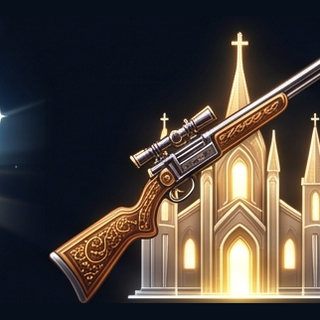
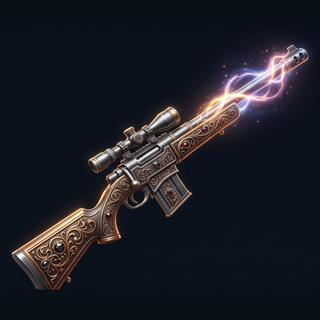
feat(gamemode): arte único por tier — 53 emblemas 3D con escala real (Novato→Adepto→Maestro) para 18 skills base + firearm/church separados; remapeo GM_NODE_ICON a keys <skill>_1/2/3, limpia 18 PNG base huérfanos; bump SW v106

diff --git a/gamemode-ui.js b/gamemode-ui.js
@@ -271,22 +271,28 @@ const GM_ICONS = {
   integrity: '<circle cx="32" cy="32" r="16" fill="url(#gm-energy)" opacity=".55"/><g fill="none" stroke="url(#gm-steel)" stroke-width="2.4"><ellipse cx="32" cy="32" rx="19" ry="8"/><ellipse cx="32" cy="32" rx="19" ry="8" transform="rotate(60 32 32)"/><ellipse cx="32" cy="32" rx="19" ry="8" transform="rotate(120 32 32)"/></g><circle cx="32" cy="32" r="4.5" fill="url(#gm-gold)"/><circle cx="30.5" cy="30.5" r="1.3" fill="#fff" opacity=".6"/><circle cx="51" cy="32" r="2" fill="url(#gm-cyan)"/><circle cx="22" cy="15.5" r="2" fill="url(#gm-cyan)"/><circle cx="22" cy="48.5" r="2" fill="url(#gm-cyan)"/>',
 };
 const GM_NODE_ICON = {
-  hombre_de_hierro: 'strength', combatiente: 'combat', saludable: 'nutrition', resistente: 'endurance', estudiante: 'intellect', alerta: 'focus', sereno: 'mind', aprendiz_de_capital: 'economist', ordenado: 'ledger', creyente: 'faith', atento: 'love', hijo_presente_n: 'family', protector_felino: 'cat', hacedor: 'execution', confiable: 'responsibility', aprendiz: 'tools',
-  hombre_de_acero: 'strength', veterano_de_combate: 'combat', nutricionista: 'nutrition', incansable: 'endurance', letrado: 'intellect', enfocado: 'focus', estoico: 'mind', inversor: 'economist', austero: 'ledger', devoto_n: 'faith', companero: 'love', hijo_ejemplar: 'family', padre_felino: 'cat', ejecutor: 'execution', responsable: 'responsibility', programador: 'tools',
+  hombre_de_hierro: 'strength_1', combatiente: 'combat_1', saludable: 'nutrition_1', resistente: 'endurance_1', estudiante: 'intellect_1', alerta: 'focus_1', sereno: 'mind_1', aprendiz_de_capital: 'economist_1', ordenado: 'ledger_1', creyente: 'faith_1', atento: 'love_1', hijo_presente_n: 'family_1', protector_felino: 'cat_1', hacedor: 'execution_1', confiable: 'responsibility_1', aprendiz: 'tools_1',
+  hombre_de_acero: 'strength_2', veterano_de_combate: 'combat_2', nutricionista: 'nutrition_2', incansable: 'endurance_2', letrado: 'intellect_2', enfocado: 'focus_2', estoico: 'mind_2', inversor: 'economist_2', austero: 'ledger_2', devoto_n: 'faith_2', companero: 'love_2', hijo_ejemplar: 'family_2', padre_felino: 'cat_2', ejecutor: 'execution_2', responsable: 'responsibility_2', programador: 'tools_2',
   patrimonio_en_marcha: 'patrimony', base_solida: 'patrimony', capital_creciente: 'patrimony', independencia_visible: 'gem', umbral_de_libertad: 'gem', patrimonio_de_elite: 'crown',
-  hombre_de_titanio: 'strength', letal: 'combat', impecable: 'nutrition', inagotable: 'endurance', jurista: 'law', imperturbable: 'focus', inquebrantable: 'mind', visionario_del_capital: 'economist', patrimonial: 'ledger', consagrado: 'faith', incondicional: 'love', hijo_de_honor: 'family', guardian_felino: 'cat', implacable: 'execution', inflexible: 'responsibility', arquitecto_digital: 'tools',
-  manejo_de_armas: 'firearm', tenencia: 'firearm', marine: 'marine', templanza_real: 'temperance', catolico_practicante: 'faith', graduado: 'graduate', primer_ingreso_negocio_ia: 'robot', coleccionista: 'medal',
+  hombre_de_titanio: 'strength_3', letal: 'combat_3', impecable: 'nutrition_3', inagotable: 'endurance_3', jurista: 'law', imperturbable: 'focus_3', inquebrantable: 'mind_3', visionario_del_capital: 'economist_3', patrimonial: 'ledger_3', consagrado: 'faith_3', incondicional: 'love_3', hijo_de_honor: 'family_3', guardian_felino: 'cat_3', implacable: 'execution_3', inflexible: 'responsibility_3', arquitecto_digital: 'tools_3',
+  manejo_de_armas: 'firearm', tenencia: 'firearm', marine: 'marine', templanza_real: 'temperance', catolico_practicante: 'church', graduado: 'graduate', primer_ingreso_negocio_ia: 'robot', coleccionista: 'medal',
   comandante_de_combate: 'commander', cuerpo_operativo: 'operative', mente_templada: 'tempered_mind', doctor_en_potencia: 'doctor', forjador_de_riqueza: 'wealth_forge', vida_ordenada: 'dove', pilar_del_hogar: 'home_pillar', arquitecto_de_sistemas: 'architect',
   centinela: 'sentinel', calculador: 'abacus', metodico: 'method', sosten: 'support', templado: 'forged', estudioso_del_sistema: 'coder', recto: 'righteous', presente_en_casa: 'presence_home', templado_de_acero: 'steel_swords',
   protector: 'guardian', estratega_total: 'strategist', disciplinado: 'discipline', proveedor: 'provider', resiliente: 'resilient_star', visionario: 'oracle', sobrio: 'dove', lider_silencioso: 'crown', inquebrantable_total: 'diamond_mind',
   hombre_de_familia: 'great_family', polimata: 'polymath', guerrero_sabio: 'wise_warrior', hombre_integro: 'temple',
-  lector_casual: 'reader', lector_entusiasta: 'reader', amante_libros: 'reader', lector_supremo: 'crown',
+  lector_casual: 'reader_1', lector_entusiasta: 'reader_2', amante_libros: 'reader_3', lector_supremo: 'crown',
 };
 function gmNodeSvg(n) { return `<svg viewBox="0 0 64 64" stroke-linejoin="round">${gmFrame(GM_RARITY_RIM[n.tier])}${GM_ICONS[GM_NODE_ICON[n.id]] || GM_ICONS.star}</svg>`; }
 // Emblemas de imagen (PNG generados con IA) que reemplazan al glyph SVG interior.
 // Agregar aquí la KEY de cada concepto cuyo archivo emblems/<key>.png ya esté disponible.
 // Mientras una key no esté en el set, ese nodo usa el glyph SVG de fallback (gmNodeSvg).
-const GM_EMBLEM_HAVE = new Set(['strength', 'combat', 'nutrition', 'endurance', 'intellect', 'focus', 'mind', 'economist', 'ledger', 'faith', 'love', 'family', 'cat', 'execution', 'responsibility', 'tools', 'patrimony', 'gem', 'crown', 'law', 'firearm', 'marine', 'temperance', 'graduate', 'robot', 'medal', 'commander', 'operative', 'tempered_mind', 'doctor', 'wealth_forge', 'dove', 'home_pillar', 'architect', 'reader', 'sentinel', 'abacus', 'method', 'support', 'forged', 'coder', 'righteous', 'presence_home', 'steel_swords', 'guardian', 'strategist', 'discipline', 'provider', 'resilient_star', 'oracle', 'diamond_mind', 'great_family', 'polymath', 'wise_warrior', 'temple']);
+const GM_EMBLEM_HAVE = new Set([
+  // Per-tier (escala real Novato→Adepto→Maestro)
+  'strength_1','strength_2','strength_3','combat_1','combat_2','combat_3','nutrition_1','nutrition_2','nutrition_3','endurance_1','endurance_2','endurance_3','focus_1','focus_2','focus_3','mind_1','mind_2','mind_3',
+  'intellect_1','intellect_2','economist_1','economist_2','economist_3','ledger_1','ledger_2','ledger_3','faith_1','faith_2','faith_3','love_1','love_2','love_3','family_1','family_2','family_3',
+  'cat_1','cat_2','cat_3','execution_1','execution_2','execution_3','responsibility_1','responsibility_2','responsibility_3','tools_1','tools_2','tools_3','reader_1','reader_2','reader_3',
+  // Sueltos + convergencias (emblema único)
+  'church','firearm','patrimony','gem','crown','law','marine','temperance','graduate','robot','medal','commander','operative','tempered_mind','doctor','wealth_forge','dove','home_pillar','architect','sentinel','abacus','method','support','forged','coder','righteous','presence_home','steel_swords','guardian','strategist','discipline','provider','resilient_star','oracle','diamond_mind','great_family','polymath','wise_warrior','temple']);
 // Renderiza el medallón: marco hexagonal de rareza SIEMPRE + (imagen del emblema si existe, si no glyph SVG).
 function gmNodeArt(n) {
   const key = GM_NODE_ICON[n.id] || 'star';

diff --git a/sw.js b/sw.js
@@ -1,7 +1,7 @@
 // Centro de Mando — Service Worker
 // Maneja Web Push, clicks de notificación, y caché offline del app shell.
 
-const CACHE = 'cdm-shell-v105';
+const CACHE = 'cdm-shell-v106';
 const BASE  = '/Centro-de-mando/';
 const SHELL = [
   BASE,
@@ -47,7 +47,7 @@ const SHELL = [
   'https://www.gstatic.com/firebasejs/9.23.0/firebase-storage-compat.js',
 ];
 // Emblemas del árbol de habilidades (PNG generados con IA)
-['strength','combat','nutrition','endurance','intellect','focus','mind','economist','ledger','faith','love','family','cat','execution','responsibility','tools','patrimony','gem','crown','law','firearm','marine','temperance','graduate','robot','medal','commander','operative','tempered_mind','doctor','wealth_forge','dove','home_pillar','architect','reader','sentinel','abacus','method','support','forged','coder','righteous','presence_home','steel_swords','guardian','strategist','discipline','provider','resilient_star','oracle','diamond_mind','great_family','polymath','wise_warrior','temple']
+['strength_1','strength_2','strength_3','combat_1','combat_2','combat_3','nutrition_1','nutrition_2','nutrition_3','endurance_1','endurance_2','endurance_3','focus_1','focus_2','focus_3','mind_1','mind_2','mind_3','intellect_1','intellect_2','economist_1','economist_2','economist_3','ledger_1','ledger_2','ledger_3','faith_1','faith_2','faith_3','love_1','love_2','love_3','family_1','family_2','family_3','cat_1','cat_2','cat_3','execution_1','execution_2','execution_3','responsibility_1','responsibility_2','responsibility_3','tools_1','tools_2','tools_3','reader_1','reader_2','reader_3','church','firearm','patrimony','gem','crown','law','marine','temperance','graduate','robot','medal','commander','operative','tempered_mind','doctor','wealth_forge','dove','home_pillar','architect','sentinel','abacus','method','support','forged','coder','righteous','presence_home','steel_swords','guardian','strategist','discipline','provider','resilient_star','oracle','diamond_mind','great_family','polymath','wise_warrior','temple']
   .forEach(k => SHELL.push(BASE + 'emblems/' + k + '.png'));
 
 self.addEventListener('install', event => {